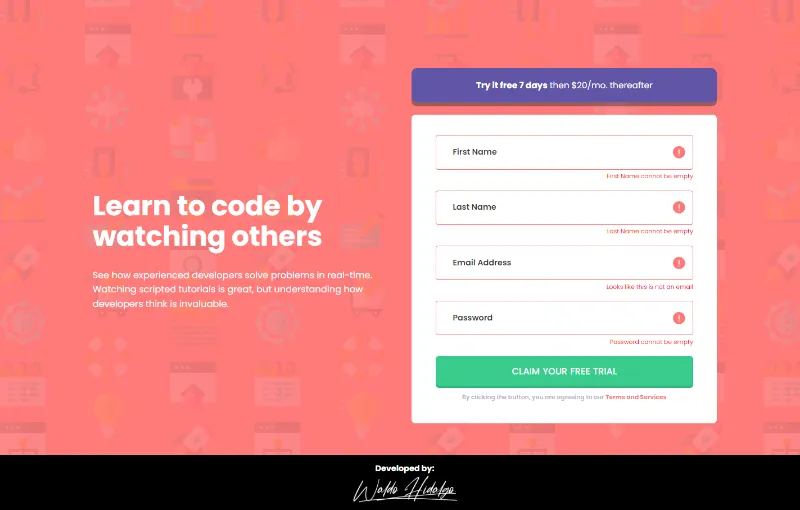
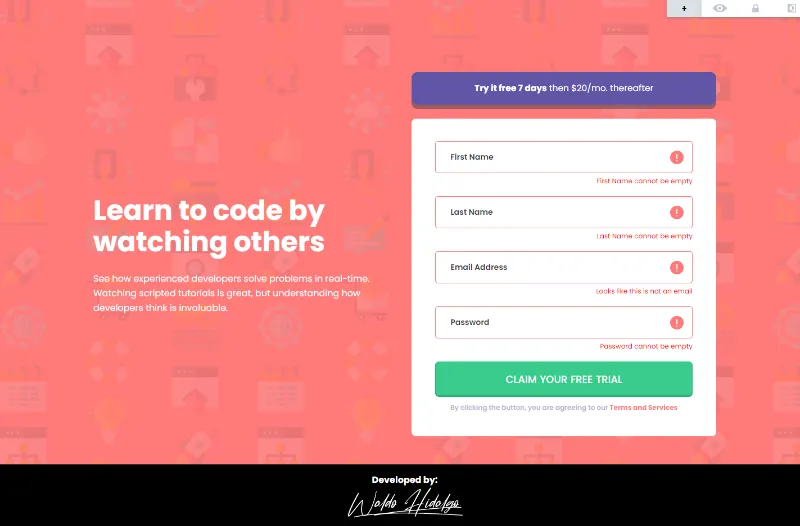
fix wrong scale from 0.9 to 1.0

diff --git a/src/App.vue b/src/App.vue
@@ -81,18 +81,18 @@ export default {
     ></div>
 
     <div
-      class="flex flex-col p-[100px_29px] lg:flex-row md:p-[62px_15px] xl:p-[62px_183px]"
+      class="flex flex-col p-[100px_29px] lg:flex-row md:p-[62px_15px] xl:p-[50px_166px]"
     >
       <div
         class="w-full lg:w-[51.1%] lg:flex lg:flex-col lg:justify-center lg:items-start lg:gap-[15px]"
       >
         <h2
-          class="text-center text-white text-[30px] font-bold leading-[41px] lg:text-start lg:text-[54px] lg:mt-[92px] lg:leading-[60px]"
+          class="text-center text-white text-[30px] font-bold leading-[41px] lg:text-start lg:text-[49px] lg:mt-[80px] lg:leading-[56px]"
         >
           Learn to code by watching others
         </h2>
         <p
-          class="text-white text-center text-[18px] mt-[25px] leading-[28px] lg:text-start lg:mt-[19px]"
+          class="text-white text-center text-[18px] mt-[25px] leading-[28px] lg:text-start lg:mt-[10px] lg:text-[16px] lg:leading-[26px]"
         >
           See how experienced developers solve problems in real-time. Watching
           scripted tutorials is great, but understanding how developers think is
@@ -101,13 +101,13 @@ export default {
       </div>
       <div class="w-full lg:w-[48.9%]">
         <button
-          class="bg-blue text-white rounded-[11px] min-[375px]:px-[60px] py-[19px] mt-[72px] leading-[30px] text-[17px] shadow-button1 w-full hover:bg-blue/80"
+          class="bg-blue text-white rounded-[11px] min-[375px]:px-[60px] py-[19px] mt-[72px] leading-[30px] text-[17px] shadow-button1 w-full hover:bg-blue/80 lg:py-[14px] lg:text-[15.5px] lg:mt-[78px]"
         >
           <span class="font-bold">Try it free 7 days</span> then $20/mo.
           thereafter
         </button>
         <form
-          class="mt-[25px] bg-white p-[28px_25px] flex flex-col rounded-[8px] gap-[18px] lg:p-[40px_47px]"
+          class="mt-[25px] bg-white p-[28px_25px] flex flex-col rounded-[8px] gap-[18px] lg:p-[40px_42px]"
           @submit.prevent="submitForm"
         >
           <InputForm

diff --git a/src/components/Input.vue b/src/components/Input.vue
@@ -31,7 +31,7 @@ export default {
         </svg>
       </div>
       <input
-        class="w-full text-darkBlue border-grayishBlue border-[1px] rounded-[5px] p-[18px_20px] placeholder:text-darkBlue placeholder:font-semibold font-semibold lg:p-[21px_33px] focus:outline focus:outline-blue"
+        class="w-full text-darkBlue border-grayishBlue border-[1px] rounded-[5px] p-[18px_20px] placeholder:text-darkBlue placeholder:font-semibold font-semibold lg:p-[17px_26px] lg:text-[14px] focus:outline focus:outline-blue"
         :name="name"
         :class="{
           'border-red border text-red': !isValid && isSubmitForm,
